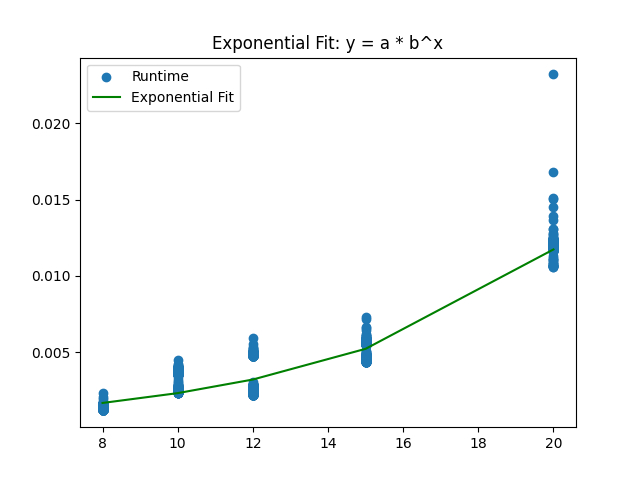
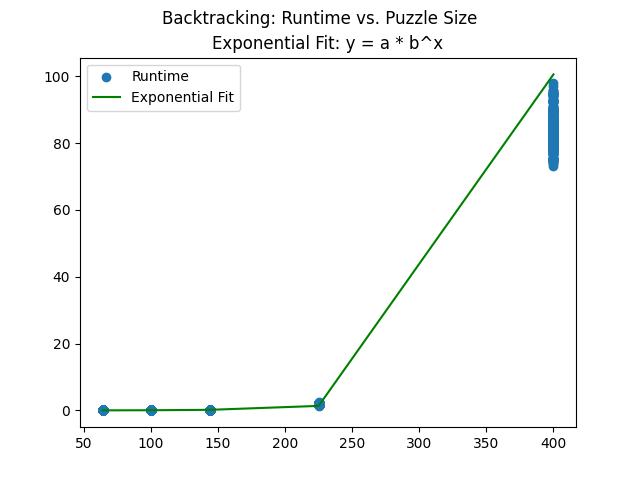
Further analysis results

diff --git a/overall_analysis.py b/overall_analysis.py
@@ -11,6 +11,7 @@ import os
 import matplotlib.pyplot as plt
 import seaborn as sns
 from scipy.stats import ttest_rel, f_oneway, shapiro
+from scipy.optimize import curve_fit
 import statsmodels.api as sm
 from statsmodels.formula.api import ols
 from sklearn.metrics import mean_squared_error, r2_score
@@ -18,12 +19,13 @@ from sklearn.metrics import mean_squared_error, r2_score
 # set up file import
 cur_dir = os.getcwd()
 work_dir = 'CS475_project'
-bf_fname = 'Brute_Force_25_04_06_1422.pkl'
-bf_input_name = os.path.join(cur_dir, work_dir, bf_fname)
-dp_fname = 'Dynamic_Programming_25_04_06_1423.pkl'
-dp_input_name = os.path.join(cur_dir, work_dir, dp_fname)
-bt_fname = 'Backtracking_25_04_06_1423.pkl'
-bt_input_name = os.path.join(cur_dir, work_dir, bt_fname)
+'''
+bf_fname = 'Brute_Force_25_04_08_1146.pkl'
+bf_input_name = os.path.join(cur_dir, bf_fname)
+dp_fname = 'Dynamic_Programming_25_04_08_1146.pkl'
+dp_input_name = os.path.join(cur_dir, dp_fname)
+bt_fname = 'Backtracking_25_04_08_1146.pkl'
+bt_input_name = os.path.join(cur_dir, bt_fname)
 
 df_bf = pd.read_pickle(bf_input_name)
 df_dp = pd.read_pickle(dp_input_name)
@@ -32,7 +34,13 @@ df_bt = pd.read_pickle(bt_input_name)
 # df_all = df_all.rename(columns = {'Puzzle size': 'Puzzle_size'})
 # put them all into one dataframe
 df_all = pd.concat([df_bf, df_dp, df_bt], ignore_index=True)
+'''
+# read into df_all
+df_fname = 'All_runs_combined.pkl'
+df_input_name = os.path.join(cur_dir, df_fname)
+df_all = pd.read_pickle(df_input_name)
 
+'''
 # count number solved by each algo
 bt_solved = len(df_all[(df_all['Algorithm'] == 'Backtracking') & (df_all['Output string'] == 'Solved')])
 print(f'{bt_solved}% of puzzles solved by Backtracking')
@@ -43,11 +51,11 @@ print(f'{dp_solved}% of puzzles solved by Dynamic Programming')
 
 end_conditions = df_all['Output string'].unique
 print(end_conditions)
-
+'''
 # separate by algorithm
-#df_bt = df_all.loc[df_all['Algorithm'] == 'Backtracking']
-#df_bf = df_all.loc[df_all['Algorithm'] == 'Brute_Force']
-#df_dp = df_all.loc[df_all['Algorithm'] == 'Dynamic_Programming']
+df_bt = df_all.loc[df_all['Algorithm'] == 'Backtracking']
+df_bf = df_all.loc[df_all['Algorithm'] == 'Brute_Force']
+df_dp = df_all.loc[df_all['Algorithm'] == 'Dynamic_Programming']
 #df_bf_dp = df_all.loc[df_all['Algorithm'] != 'Backtracking']
 
 #print(df_bt.head)
@@ -56,12 +64,12 @@ print(end_conditions)
 #df_bf_dp = pd.concat([bf_df, dp_df], ignore_index=True)
 
 
-'''
-# looks like backtracking time grows exponentially
+
+# looks like runtimes time grows exponentially
 # set up exponential curve fit
-x = df_dp['Puzzle_size']
+x = df_bt['Puzzle size']
 x = x ** 2                  # regress on number of spots
-y = df_dp['Runtime']
+y = df_bt['Runtime']
 y = y[y > 0]                # Avoid log(0)
 x = x.loc[y.index]
 
@@ -72,8 +80,8 @@ coeffs = np.polyfit(x, log_y, deg = 1)
 
 log_a, log_b = coeffs[1], coeffs[0]
 
-print(coeffs)
-print(log_a, log_b)
+#print(coeffs)
+#print(log_a, log_b)
 
 a = np.exp(log_a)
 b = np.exp(log_b)
@@ -85,6 +93,7 @@ y_fit = a * (b ** x)
 plt.scatter(x, y, label = 'Runtime')
 plt.plot(x, y_fit, color = 'green', label = 'Exponential Fit')
 plt.legend()
+plt.suptitle('Backtracking: Runtime vs. Puzzle Size')
 plt.title('Exponential Fit: y = a * b^x')
 plt.show()
 
@@ -95,7 +104,7 @@ r2 = r2_score(y, y_fit)
 mse = mean_squared_error(y, y_fit)
 
 print(f'R²: {r2:.4f}, MSE: {mse:.4f}')
-'''
+
 '''
 # OLS regression on BF and DP  runtime vs puzzle size
 bf_result = sm.OLS.from_formula(formula = 'Runtime ~ Puzzle_size', data = df_bf).fit()
@@ -108,8 +117,8 @@ print(bf_result.summary())
 # initial description and summary stats
 summary1 = df_all.groupby(['Puzzle size', 'Algorithm'])[['Runtime']].describe()
 print(summary1)
-#summary2 = df_all.groupby('Puzzle_size', 'Algorithm')[['Iterations']].describe()
-#print(summary2)
+summary2 = df_all.groupby(['Puzzle size', 'Algorithm'])[['Iterations']].describe()
+print(summary2)
 
 print()
 df_median = df_all.groupby(['Puzzle size', 'Algorithm'])[['Runtime']].median() 
@@ -141,13 +150,14 @@ plt.suptitle('Runtime Distribution by Puzzle Size')
 plt.title('Brute Force and Dynamic Programming', fontsize = 10)
 plt.show()
 
-sns.histplot(data = df_bt, x = 'Runtime', hue = 'Puzzle size', bins = 60, kde = False, element = 'step')
-plt.title('Runtime Distribution for Backtracking')
-
+sns.histplot(data = df_bt, x = 'Iterations', bins = 60, kde = False, element = 'step')
+plt.title('Pre-filtered Grid Distribution for Backtracking, n=100')
+plt.xlabel('Number Pre-filtered out of 64 possible')
 plt.show()
-'''
+
 
 # Save the combined file 
-output_fname = 'All_12.2_combined.pkl'
-combined_name = os.path.join(cur_dir, work_dir, output_fname)
+output_fname = 'All_8.2_combined.pkl'
+combined_name = os.path.join(cur_dir, output_fname)
 df_all.to_pickle(combined_name)
+'''

diff --git a/main_solver.py b/main_solver.py
@@ -45,7 +45,7 @@ output_list = []
 cur_dir = os.getcwd()
 work_dir = 'CS475_project'
 data_dir = 'data'
-file_stub = '12x12_2_'
+file_stub = '8x8_2_'
 file_type = '.csv'
 
 #npz_name = '10x10_0.2.npz'
@@ -66,7 +66,7 @@ file_type = '.csv'
 for i in range(100):
     file_num = str(i)
     file_name = file_stub + file_num + file_type
-    csv_input_name = os.path.join(cur_dir, work_dir, data_dir, file_name)
+    csv_input_name = os.path.join(cur_dir, data_dir, file_name)
     # reset variables
     puzzle_array = []
     puzzle_mask = []
@@ -176,12 +176,12 @@ for i in range(100):
                 final_string = 'Solved'
                 # print(f'Solved in {iter} iterations')
             iter += 1
-            if iter > 10 and np.array_equal(old_puzzle_mask, puzzle_mask):
+            if iter > 3 and np.array_equal(old_puzzle_mask, puzzle_mask):
                 done = True
                 final_string = 'Stalled after ' + str(iter) + ' iterations'
-            if iter > 250:
+            if iter > 100:
                 done = True
-                final_string = 'Found no solution after 250 iterations'
+                final_string = 'Found no solution after 100 iterations'
 
         # change puzzle mask so invalid nums = 0
         puzzle_mask[puzzle_mask == -1] = 0
@@ -192,6 +192,7 @@ for i in range(100):
     if algo_to_run == 3:
         # Main BT solver
         bt_puzzle_array = create_bt_array(puzzle_size, puzzle_array, puzzle_mask, row_tgt, col_tgt)
+        inter_count = np.count_nonzero(puzzle_mask == -1)
         
         # main BT solver using solve_grid
         solution = solve_grid(bt_puzzle_array, row_tgt, col_tgt, puzzle_size) 
@@ -208,7 +209,7 @@ for i in range(100):
             # print('\nSolution Array')
             solution_array = solution_mask * puzzle_array
             final_string = 'Solved'
-            iter = 1
+            iter = inter_count
             #print(solution_array)
 
         else:
@@ -232,7 +233,7 @@ time_stamp = time_now.strftime('%y_%m_%d_%H%M')
 cur_dir = os.getcwd()
 work_dir = 'CS475_project'
 output_name = algo_string + '_' + time_stamp + '.pkl'
-output_path = os.path.join(cur_dir, work_dir, output_name)
+output_path = os.path.join(cur_dir, output_name)
 output_df.to_pickle(output_path)
 
 

diff --git a/convert_npz_csv.py b/convert_npz_csv.py
@@ -8,8 +8,8 @@ cur_dir = os.getcwd()
 work_dir = 'CS475_project'
 new_wd = os.path.join(cur_dir, work_dir)
 data_dir = 'data'
-os.chdir(new_wd)
-file_stub = '12x12_0.2-'
+#os.chdir(new_wd)
+file_stub = '8x8_0.2-'
 
 # input_path = os.path.join(new_wd, input_name)
 # loop through puzzles
@@ -35,8 +35,8 @@ for i in range(100):
     full_p = np.insert(new_p, 0, new_ct, axis=0)
 
 
-    f_name = '12x12_2_' + str(i) + '.csv'
-    out_path = os.path.join(new_wd, data_dir, f_name)
+    f_name = '8x8_2_' + str(i) + '.csv'
+    out_path = os.path.join(data_dir, f_name)
     np.savetxt(out_path, full_p, delimiter=',', fmt='%d')
 
 

diff --git a/scratch.py b/scratch.py
@@ -1,0 +1,14 @@
+# scratch.py
+
+from math import perm
+
+n = 8
+
+total8 = sum(perm(n, k) for k in range(1, n+1))
+
+n = 20
+total20 = sum(perm(n, k) for k in range(1, n+1))
+
+print(total8)
+
+print(f'{total20:e}')
